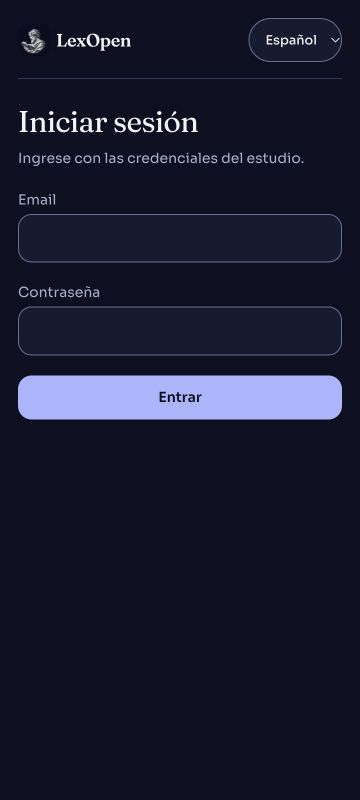
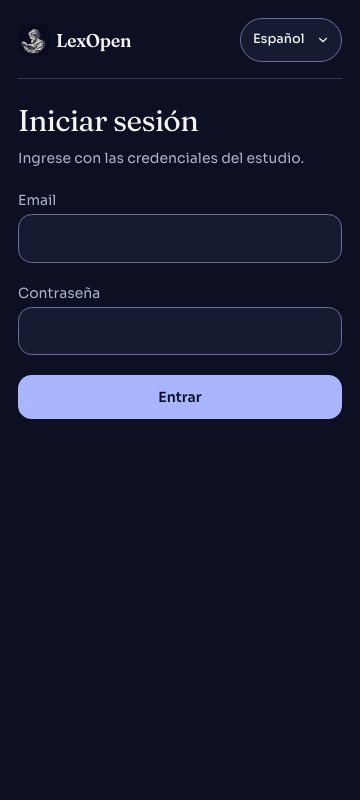
Usa logotipos transparentes y simplifica el ingreso

diff --git a/src/app/login/page.tsx b/src/app/login/page.tsx
@@ -2,7 +2,7 @@
 
 import Image from "next/image";
 import Link from "next/link";
-import { FormEvent, useMemo, useState, useSyncExternalStore, Suspense } from "react";
+import { FormEvent, useState, useSyncExternalStore, Suspense } from "react";
 import { useRouter, useSearchParams } from "next/navigation";
 import "../welcome.css";
 import "./login.css";
@@ -11,8 +11,6 @@ import { resolvePostLoginPath } from "@/lib/auth/home-path";
 import { LanguageSwitcher } from "@/components/i18n/LanguageSwitcher";
 import { useI18n } from "@/components/i18n/I18nProvider";
 
-/** Demo shortcuts are build-time stripped from production client bundles. */
-const SHOW_DEMO_LOGIN = process.env.NODE_ENV !== "production";
 const subscribeHydration = () => () => {};
 const hydratedSnapshot = () => true;
 const serverSnapshot = () => false;
@@ -24,7 +22,6 @@ function LoginForm() {
   const next = sp.get("next") || "/inicio";
   const [error, setError] = useState("");
   const [busy, setBusy] = useState(false);
-  const [email, setEmail] = useState(SHOW_DEMO_LOGIN ? "socio@estudio.cl" : "");
   const [needsTotp, setNeedsTotp] = useState(false);
   const { t } = useI18n();
 
@@ -32,16 +29,6 @@ function LoginForm() {
     router.push(safeAppPath(resolvePostLoginPath(role, next)));
     router.refresh();
   }
-
-  const demoUsers = useMemo(
-    () => [
-      { email: "socio@estudio.cl", label: t("login.roles.admin") },
-      { email: "abogado@estudio.cl", label: t("login.roles.lawyer") },
-      { email: "asistente@estudio.cl", label: t("login.roles.assistant") },
-      { email: "cliente@andes.cl", label: t("login.roles.client") },
-    ],
-    [t]
-  );
 
   async function onSubmit(e: FormEvent<HTMLFormElement>) {
     e.preventDefault();
@@ -97,9 +84,9 @@ function LoginForm() {
         <aside className="login-story">
           <Link href="/" className="login-engraving-link" aria-label="LexOpen">
             <Image
-              src="/icons/icon-512.png"
-              width={512}
-              height={512}
+              src="/icons/lexopen-logo.png"
+              width={1254}
+              height={1254}
               sizes="(max-width: 767px) 1px, 320px"
               alt=""
               className="edition-engraving login-engraving"
@@ -128,7 +115,7 @@ function LoginForm() {
             <div>
               <h1 className="display text-3xl">{t("login.title")}</h1>
               <p className="mt-2 text-sm leading-relaxed text-[var(--muted)]">
-                {SHOW_DEMO_LOGIN ? t("login.subtitle") : t("login.subtitleProd")}
+                {t("login.subtitleProd")}
               </p>
             </div>
             <label className="block text-sm">
@@ -138,27 +125,24 @@ function LoginForm() {
                 name="email"
                 type="email"
                 required={!needsTotp}
-                value={email}
-                onChange={(e) => setEmail(e.target.value)}
                 autoComplete="username"
                 disabled={!hydrated || needsTotp}
               />
             </label>
             {!needsTotp ? (
-              <label className="block text-sm">
+              <label key="password" className="block text-sm">
                 <span className="mb-1 block text-[var(--muted)]">{t("login.password")}</span>
                 <input
                   className="input"
                   name="password"
                   type="password"
                   required
-                  defaultValue={SHOW_DEMO_LOGIN ? "lexopen" : ""}
                   autoComplete="current-password"
                   disabled={!hydrated}
                 />
               </label>
             ) : (
-              <label className="block text-sm">
+              <label key="totp" className="block text-sm">
                 <span className="mb-1 block text-[var(--muted)]">
                   Código 2FA o respaldo
                 </span>
@@ -198,27 +182,6 @@ function LoginForm() {
               </button>
             )}
           </form>
-
-          {SHOW_DEMO_LOGIN && (
-            <div className="login-demo">
-              <p className="text-sm text-[var(--muted)]">
-                {t("login.demoUsers")}
-              </p>
-              <div className="mt-3 flex flex-wrap gap-2">
-                {demoUsers.map((u) => (
-                  <button
-                    key={u.email}
-                    type="button"
-                    disabled={!hydrated}
-                    className="btn btn-ghost"
-                    onClick={() => setEmail(u.email)}
-                  >
-                    {u.label}
-                  </button>
-                ))}
-              </div>
-            </div>
-          )}
         </div>
       </div>
     </main>

diff --git a/src/components/i18n/LanguageSwitcher.tsx b/src/components/i18n/LanguageSwitcher.tsx
@@ -1,5 +1,6 @@
 "use client";
 
+import { ChevronDown } from "lucide-react";
 import { LOCALES, LOCALE_LABELS, type Locale } from "@/lib/i18n";
 import { useI18n } from "@/components/i18n/I18nProvider";
 
@@ -24,19 +25,21 @@ export function LanguageSwitcher({
   return (
     <label className={`inline-flex items-center gap-2 ${className}`}>
       <span className="sr-only">{t("common.language")}</span>
-      <select
-        className={`min-h-11 rounded-full border px-3 py-1.5 font-medium outline-none focus:ring-2 focus:ring-[var(--sea)]/40 ${base}`}
-        value={locale}
-        disabled={pending}
-        aria-label={t("common.language")}
-        onChange={(e) => void setLocale(e.target.value as Locale)}
-      >
-        {LOCALES.map((code) => (
-          <option key={code} value={code}>
-            {LOCALE_LABELS[code]}
-          </option>
-        ))}
-      </select>
+      <span className="relative inline-flex items-center">
+        <select
+          className={`min-h-11 appearance-none rounded-full border py-1.5 ps-3 pe-9 font-medium outline-none focus:ring-2 focus:ring-[var(--sea)]/40 ${base}`}
+          value={locale}
+          disabled={pending}
+          onChange={(e) => void setLocale(e.target.value as Locale)}
+        >
+          {LOCALES.map((code) => (
+            <option key={code} value={code}>
+              {LOCALE_LABELS[code]}
+            </option>
+          ))}
+        </select>
+        <ChevronDown size={14} aria-hidden="true" className="pointer-events-none absolute end-3" />
+      </span>
     </label>
   );
 }

diff --git a/src/lib/i18n/dictionaries/es.ts b/src/lib/i18n/dictionaries/es.ts
@@ -324,7 +324,6 @@ export const es = {
     storyBody: "Causas, biblioteca y herramientas de trabajo reunidas en tu espacio jurídico.",
     library: "Biblioteca",
     title: "Iniciar sesión",
-    subtitle: "Use un usuario demo o sus credenciales del estudio.",
     subtitleProd: "Ingrese con las credenciales del estudio.",
     email: "Email",
     password: "Contraseña",
@@ -332,17 +331,6 @@ export const es = {
     preparing: "Preparando acceso…",
     submitting: "Entrando…",
     error: "No se pudo iniciar sesión",
-    demoUsers: "Usuarios demo · contraseña lexopen",
-    roles: {
-      admin: "Admin del Host",
-      socio: "Socio/a",
-      lawyer: "Abogado/a",
-      procurador: "Procurador/a",
-      assistant: "Asistente",
-      contabilidad: "Contabilidad",
-      externo: "Externo",
-      client: "Cliente (portal)",
-    },
   },
   landing: {
     signIn: "Iniciar sesión",
@@ -351,7 +339,6 @@ export const es = {
     lead:
       "Del expediente al escrito, conserva tus documentos, plazos y fuentes en un mismo lugar. Organiza causas manualmente o conéctalas con el Poder Judicial de Chile.",
     openPlatform: "Abrir plataforma",
-    seeDemo: "Ver demo del estudio",
     matterLabel: "Espacio de causa",
     matterMeta: "Expediente de demostración",
     bullets: [

diff --git a/src/lib/i18n/dictionaries/en.ts b/src/lib/i18n/dictionaries/en.ts
@@ -326,7 +326,6 @@ export const en: Dictionary = {
     storyBody: "Cases, your library and working tools together in your legal workspace.",
     library: "Library",
     title: "Sign in",
-    subtitle: "Use a demo user or your firm credentials.",
     subtitleProd: "Sign in with your firm credentials.",
     email: "Email",
     password: "Password",
@@ -334,17 +333,6 @@ export const en: Dictionary = {
     preparing: "Preparing sign in…",
     submitting: "Signing in…",
     error: "Could not sign in",
-    demoUsers: "Demo users · password lexopen",
-    roles: {
-      admin: "Host admin",
-      socio: "Partner",
-      lawyer: "Lawyer",
-      procurador: "Court clerk",
-      assistant: "Paralegal",
-      contabilidad: "Accounting",
-      externo: "External",
-      client: "Client (portal)",
-    },
   },
   landing: {
     signIn: "Sign in",
@@ -353,7 +341,6 @@ export const en: Dictionary = {
     lead:
       "Keep your documents, deadlines and sources together, from case file to final draft. Manage matters manually or connect them to the Chilean judiciary.",
     openPlatform: "Open platform",
-    seeDemo: "View firm demo",
     matterLabel: "Matter workspace",
     matterMeta: "Demonstration case file",
     bullets: [

diff --git a/src/app/page.tsx b/src/app/page.tsx
@@ -36,15 +36,12 @@ export default function LandingPage() {
               <Link href="/login" className="btn btn-primary">
                 {t("landing.openPlatform")} <ArrowRight size={16} aria-hidden="true" />
               </Link>
-              <Link href="/login?next=/inicio" className="btn btn-ghost">
-                {t("landing.seeDemo")}
-              </Link>
             </div>
           </div>
           <Image
-            src="/icons/icon-512.png"
-            width={512}
-            height={512}
+            src="/icons/lexopen-logo.png"
+            width={1254}
+            height={1254}
             sizes="(max-width: 640px) 272px, (max-width: 880px) 352px, 512px"
             alt=""
             loading="eager"

diff --git a/src/app/welcome.css b/src/app/welcome.css
@@ -102,9 +102,6 @@
 .edition-engraving {
   display: block;
   height: auto;
-  mask-image: linear-gradient(to right, transparent, black 7%, black 93%, transparent),
-    linear-gradient(to bottom, transparent, black 7%, black 93%, transparent);
-  mask-composite: intersect;
 }
 
 .edition-hero-art {

diff --git a/src/app/login/login.css b/src/app/login/login.css
@@ -87,12 +87,6 @@
   font-size: var(--text-sm);
 }
 
-.login-demo {
-  margin-top: 1.5rem;
-  border-top: 1px solid var(--line);
-  padding-top: 1.125rem;
-}
-
 .login-loading {
   width: min(100%, 29rem);
   min-height: 12rem;
